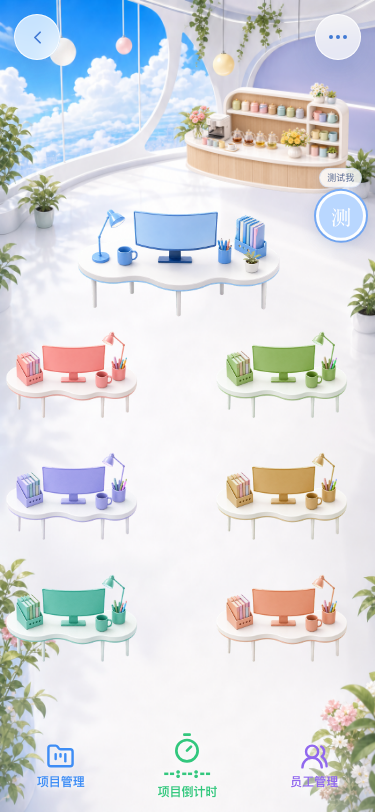
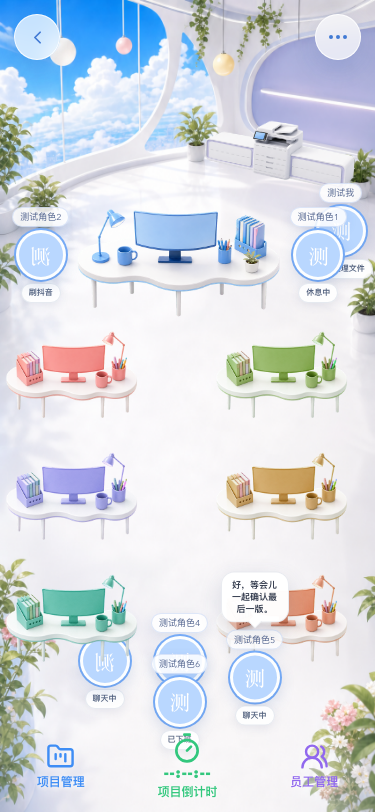
fix(work): keep office activity UI readable

diff --git a/src/work/office.css b/src/work/office.css
@@ -40,6 +40,7 @@
 
 .office-character { position: absolute; z-index: 2; left: var(--x); top: var(--y); display: grid; width: 68px; justify-items: center; transform: translate(-50%,-72%); transition: left var(--walk-duration,700ms) linear, top var(--walk-duration,700ms) linear; pointer-events: none; }
 .office-character.is-moving { z-index: 4; }
+.office-character.has-bubble { z-index: 7; }
 .office-character-name { max-width: 76px; margin-bottom: 3px; overflow: hidden; border: 1px solid rgba(93,140,224,.2); border-radius: 999px; background: rgba(255,255,255,.86); color: #53658f; font-size: 9px; line-height: 18px; padding: 0 7px; text-overflow: ellipsis; white-space: nowrap; box-shadow: 0 4px 12px rgba(67,104,171,.12); }
 .office-character-body { display: grid; width: 50px; height: 50px; place-items: center; overflow: hidden; border: 3px solid rgba(255,255,255,.96); border-radius: 50%; background: #b9d7ff; box-shadow: 0 6px 16px rgba(66,104,174,.2), 0 0 0 2px #79aef9; transform-origin: bottom; }
 .office-character-body img { width: 100%; height: 100%; object-fit: cover; transform: scaleX(-1); }

diff --git a/src/work/officeGeometry.js b/src/work/officeGeometry.js
@@ -18,8 +18,8 @@ export const OFFICE_ACTIVITY_POINTS = Object.freeze({
   "social-left": Object.freeze({ x: 30, y: 84 }),
   "social-center": Object.freeze({ x: 50, y: 84 }),
   "social-right": Object.freeze({ x: 70, y: 84 }),
-  "rest-left": Object.freeze({ x: 7, y: 34 }),
-  "rest-right": Object.freeze({ x: 93, y: 34 }),
+  "rest-left": Object.freeze({ x: 13, y: 34 }),
+  "rest-right": Object.freeze({ x: 87, y: 34 }),
   "play-left": Object.freeze({ x: 22, y: 86 }),
   "play-right": Object.freeze({ x: 78, y: 86 }),
   "print-wait": Object.freeze({ x: 47, y: 22 }),

diff --git a/src/work/workScreen.test.js b/src/work/workScreen.test.js
@@ -110,6 +110,7 @@ test("characters render activity below avatars and bubbles above them", () => {
   assert.match(character, /office-character-bubble/);
   assert.match(character, /office-character-activity/);
   assert.match(character, /role="status"/);
+  assert.match(character, /has-bubble/);
   assert.match(scene, /characterStates/);
   assert.match(styles, /\.office-character-bubble\s*\{[^}]*max-width:/s);
   assert.match(styles, /\.office-character-activity\s*\{[^}]*text-overflow:\s*ellipsis/s);

diff --git a/src/work/OfficeCharacter.jsx b/src/work/OfficeCharacter.jsx
@@ -1,7 +1,7 @@
 export function OfficeCharacter({ profile, avatar, node, facing = "right", moving = false, durationMs = 700, activity = "working", label = "工作中", bubble = "" }) {
   return (
     <div
-      className={`office-character ${moving ? "is-moving" : "is-active"}`}
+      className={`office-character ${moving ? "is-moving" : "is-active"} ${bubble ? "has-bubble" : ""}`}
       data-facing={facing}
       data-activity={activity}
       data-profile-id={profile.id}
